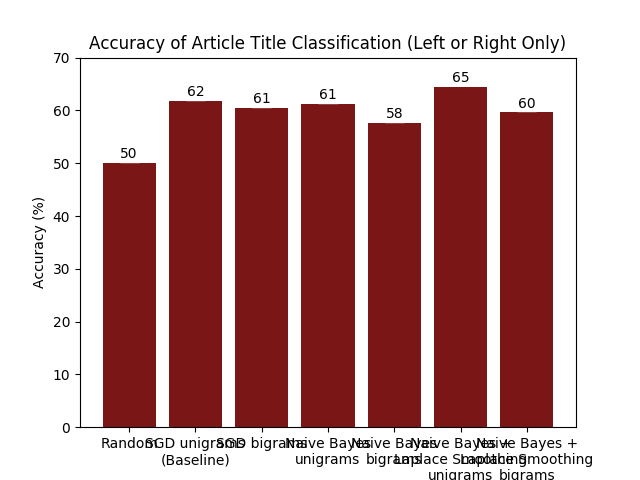
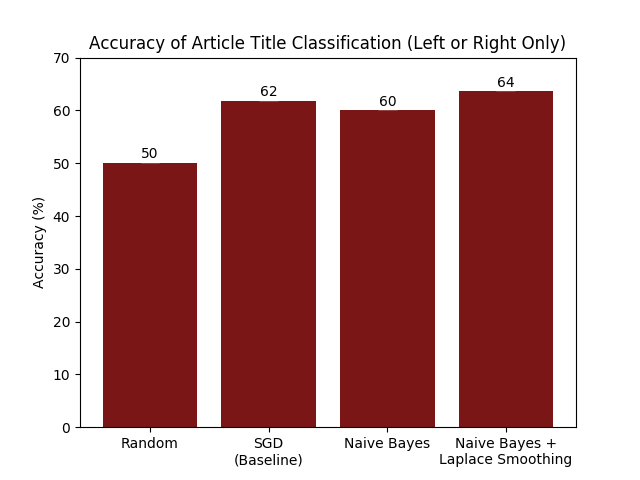
separate bernoulli and com

Changed region(s): [[0.1562, 0.1562, 0.9375, 1.0]]

diff --git a/bias/plot_data.py b/bias/plot_data.py
@@ -14,7 +14,7 @@ def fileName(model, isLR, nGrams, predict):
     return "%s/%s_%s_%s_%s" % (SUBDIR, model, LrOrFull, nGramStr, predict)
 
 models = ["LogisticRegression", "NaiveBayes", "LaplaceNaiveBayes"]
-modelNames = ["Random", "SGD unigrams\n(Baseline)", "SGD bigrams", "Naive Bayes\nunigrams", "Naive Bayes\nbigrams", "Naive Bayes +\nLaplace Smoothing\nunigrams", "Naive Bayes +\nLaplace Smoothing\nbigrams"]
+modelNames = ["Random", "SGD\n(Baseline)", "Naive Bayes", "Naive Bayes +\nLaplace Smoothing"]
 
 def extractDataFromFiles(isLr, predict):
     trainArr = []
@@ -27,21 +27,20 @@ def extractDataFromFiles(isLr, predict):
         testArr.append(20.0)
         trainArr.append(20.0)
     for model in models:
-        for nGrams in [False, True]:
-            with open(fileName(model, isLr, nGrams, predict), "r") as f:
-                lines = f.readlines()
-                print(lines)
-                trainM = re.match("train: (.*)", lines[0])
-                trainArr.append(float(trainM.group(1)) * 100.0)
-                testM = re.match("test: (.*)", lines[1])
-                testArr.append(float(testM.group(1)) * 100.0)
+        with open(fileName(model, isLr, False, predict), "r") as f:
+            lines = f.readlines()
+            print(lines)
+            trainM = re.match("train: (.*)", lines[0])
+            trainArr.append(float(trainM.group(1)) * 100.0)
+            testM = re.match("test: (.*)", lines[1])
+            testArr.append(float(testM.group(1)) * 100.0)
     return trainArr, testArr
 
 
 def makeBiasFullSpectrumPlot():
     trainArr, testArr = extractDataFromFiles(False, "GuessBias")
     fig, ax = plt.subplots()
-    bars = ax.bar(range(2*len(models) + 1), testArr, color=DARK_RED)
+    bars = ax.bar(range(len(models) + 1), testArr, color=DARK_RED)
     for i in range(len(bars)):
         ax.text(bars[i].get_x() + bars[i].get_width() / 2, bars[i].get_y() + bars[i].get_height() + bars[0].get_height() / 20, str(round(testArr[i])), ha='center', va='center', bbox=bgbox)
     plt.title("Accuracy of Article Title Classification (Full Spectrum)")
@@ -53,7 +52,7 @@ def makeBiasFullSpectrumPlot():
 def makeBiasLROnlyPlot():
     trainArr, testArr = extractDataFromFiles(True, "GuessBias")
     fig, ax = plt.subplots()
-    bars = ax.bar(range(2*len(models) + 1), testArr, color=DARK_RED)
+    bars = ax.bar(range(len(models) + 1), testArr, color=DARK_RED)
     for i in range(len(bars)):
         ax.text(bars[i].get_x() + bars[i].get_width() / 2, bars[i].get_y() + bars[i].get_height() + bars[0].get_height() / 30, str(round(testArr[i])), ha='center', va='center', bbox=bgbox)
     plt.title("Accuracy of Article Title Classification (Left or Right Only)")

diff --git a/bias/news_bias_baseline.py b/bias/news_bias_baseline.py
@@ -11,6 +11,7 @@ import nltk
 #nltk.download('stopwords')
 from sklearn.naive_bayes import MultinomialNB
 from sklearn.naive_bayes import BernoulliNB
+from sklearn.naive_bayes import ComplementNB
 from sklearn.metrics import confusion_matrix
 
 ps = PorterStemmer()
@@ -18,11 +19,13 @@ NEUTRAL_PARTISAN_ONLY = False
 LEFT_RIGHT_ONLY = False 
 NAIVE_BAYES = False
 NAIVE_BAYES_COM = False
+NAIVE_BAYES_BER = False
 NGRAMS = False 
 GUESS_BIAS = False
 GUESS_PUBLISHER = False 
 GUESS_BIAS_OF_PUBLISHER = False
 LAPLACE_SMOOTHING = False
+ALPHA=1
 stops = set(stopwords.words('english'))
 
 def bagOfWordsExtractor(text):
@@ -118,17 +121,24 @@ def evaluate(X_train, Y_train, X_test, Y_test, out):
         if NAIVE_BAYES:
             print("Using Naive Bayes")
             if LAPLACE_SMOOTHING:
-                classifier = MultinomialNB()
+                classifier = MultinomialNB(alpha=ALPHA)
             else:
                 classifier = MultinomialNB(alpha=0)
             classifier.fit(X_train, Y_train)
-        elif NAIVE_BAYES_COM:
-            print("Using Naive Bayes alternate")
+        elif NAIVE_BAYES_BER:
+            print("Using Naive Bayes bernoulli")
             if LAPLACE_SMOOTHING:
-                classifier = BernoulliNB()
+                classifier = BernoulliNB(alpha=ALPHA)
             else:
                 classifier = BernoulliNB(alpha=0)
-            #classifier = ComplementNB()
+            classifier = ComplementNB()
+            classifier.fit(X_train, Y_train)
+        elif NAIVE_BAYES_COM:
+            print("Using Naive Bayes complement")
+            if LAPLACE_SMOOTHING:
+                classifier = ComplementNB(alpha=ALPHA)
+            else:
+                classifier = ComplementNB(alpha=0)
             classifier.fit(X_train, Y_train)
         else:
             classifier = linear_model.SGDClassifier()
@@ -278,6 +288,7 @@ def runExperiment(params, fileName):
 
     global NAIVE_BAYES
     global NAIVE_BAYES_COM
+    global NAIVE_BAYES_BER
     global NEUTRAL_PARTISAN_ONLY 
     global LEFT_RIGHT_ONLY 
     global NGRAMS 
@@ -290,6 +301,7 @@ def runExperiment(params, fileName):
     
     NAIVE_BAYES = params["NaiveBayes"]
     NAIVE_BAYES_COM = params["NaiveBayesCom"]
+    NAIVE_BAYES_BER = params["NaiveBayesBer"]
     LAPLACE_SMOOTHING = params["LaplaceSmoothing"]
     NEUTRAL_PARTISAN_ONLY = params["NeutralPartisanOnly"]
     LEFT_RIGHT_ONLY = params["LeftRightOnly"]

diff --git a/bias/run_eval.py b/bias/run_eval.py
@@ -3,6 +3,7 @@ import news_bias_baseline as bias
 params = {
         "NaiveBayes": False,
         "NaiveBayesCom": False,
+        "NaiveBayesBer": False,
         "LaplaceSmoothing": False,
         "NeutralPartisanOnly": False,
         "LeftRightOnly": False,
@@ -50,7 +51,7 @@ def runExperiments(modelParams, includeRLOnly, model, predict):
 #        bias.runExperiment(modelParams, fileName(model, True, True, predict))
 
 logisticRegressionParams = params.copy()
-runAll(logisticRegressionParams, "LogisticRegression")
+#runAll(logisticRegressionParams, "LogisticRegression")
 
 naiveBayesParams = params.copy()
 naiveBayesParams["NaiveBayesCom"] = True
